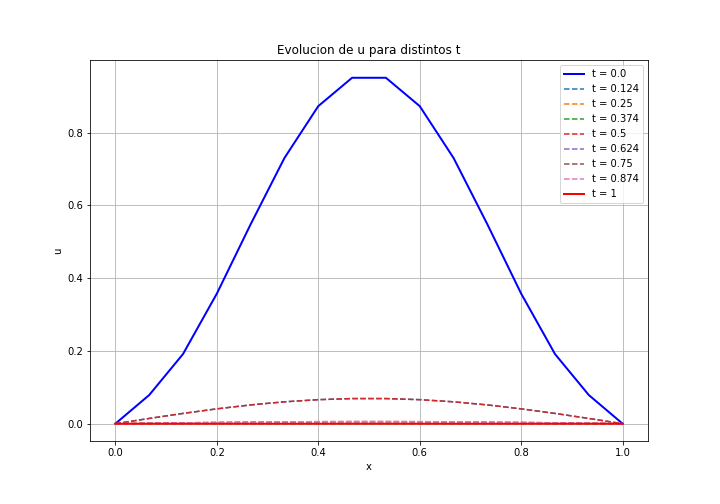
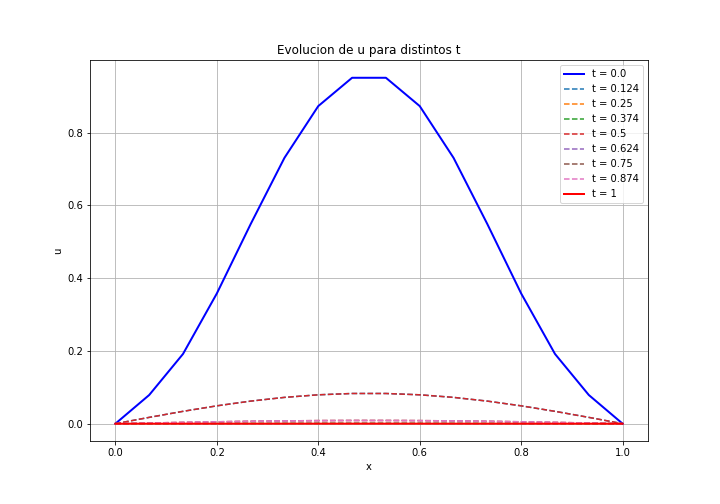
Resuelto 4 + graficos

diff --git a/TP2AnalisisNumerico.py b/TP2AnalisisNumerico.py
@@ -12,7 +12,7 @@ from matplotlib import cm
 
 
 
-def graficarEcuacionDelCalor(tf, J, Nt, nombre1, nombre2, nombre3) :
+def graficarEcuacionDelCalor(D, tf, J, Nt, nombre1, nombre2, nombre3) :
 
     xl=0; xr=1; # x domain [xl,xr]
     dx = (xr-xl) / J; # dx: mesh size
@@ -39,12 +39,12 @@ def graficarEcuacionDelCalor(tf, J, Nt, nombre1, nombre2, nombre3) :
         gr = 0
         if n==0: # first time step
             for j in np.arange(1,J): # interior nodes
-                u[j,n] = f[j] + mu*(f[j+1]-2*f[j]+f[j-1]);
+                u[j,n] = f[j] + dt*f[j]*(1-f[j]) + D*mu*(f[j+1]-2*f[j]+f[j-1]);
             u[0,n] = gl; # the left-end point
             u[J,n] = gr; # the right-end point
         else:
             for j in np.arange(1,J): # interior nodes
-                u[j,n]=u[j,n-1]+mu*(u[j+1,n-1]-2*u[j,n-1]+u[j-1,n-1]);
+                u[j,n]=u[j,n-1] + dt*u[j, n-1]*(1-u[j, n-1]) + D*mu*(u[j+1,n-1]-2*u[j,n-1]+u[j-1,n-1]);
             u[0,n] = gl; # the left-end point
             u[J,n] = gr; # the right-end point
             
@@ -96,7 +96,9 @@ def graficarEcuacionDelCalor(tf, J, Nt, nombre1, nombre2, nombre3) :
     
     return pl
 
-graficarEcuacionDelCalor(0.1, 20, 100, 'CurvasDeNivelCaso1.png','SolucionNumericaCaso1.png', 'EvolucionCaso1.png')
-graficarEcuacionDelCalor(0.3, 15, 500, 'CurvasDeNivelCaso2.png','SolucionNumericaCaso2.png', 'EvolucionCaso2.png')
-graficarEcuacionDelCalor(1, 15, 500, 'CurvasDeNivelCaso3.png','SolucionNumericaCaso3.png', 'EvolucionCaso3.png')
-graficarEcuacionDelCalor(3, 15, 3000, 'CurvasDeNivelCaso4.png','SolucionNumericaCaso4.png', 'EvolucionCaso4.png')
+graficarEcuacionDelCalor(1, 0.1, 20, 100, 'CurvasDeNivelCaso1.png','SolucionNumericaCaso1.png', 'EvolucionCaso1.png')
+graficarEcuacionDelCalor(1, 0.3, 15, 500, 'CurvasDeNivelCaso2.png','SolucionNumericaCaso2.png', 'EvolucionCaso2.png')
+graficarEcuacionDelCalor(1, 1, 15, 500, 'CurvasDeNivelCaso3.png','SolucionNumericaCaso3.png', 'EvolucionCaso3.png')
+graficarEcuacionDelCalor(1, 3, 15, 3000, 'CurvasDeNivelCaso4.png','SolucionNumericaCaso4.png', 'EvolucionCaso4.png')
+graficarEcuacionDelCalor(0.5, 0.1, 20, 100, 'CurvasDeNivelCaso5.png','SolucionNumericaCaso5.png', 'EvolucionCaso5.png')
+graficarEcuacionDelCalor(1.5, 0.3, 15, 500, 'CurvasDeNivelCaso6.png','SolucionNumericaCaso6.png', 'EvolucionCaso6.png')
